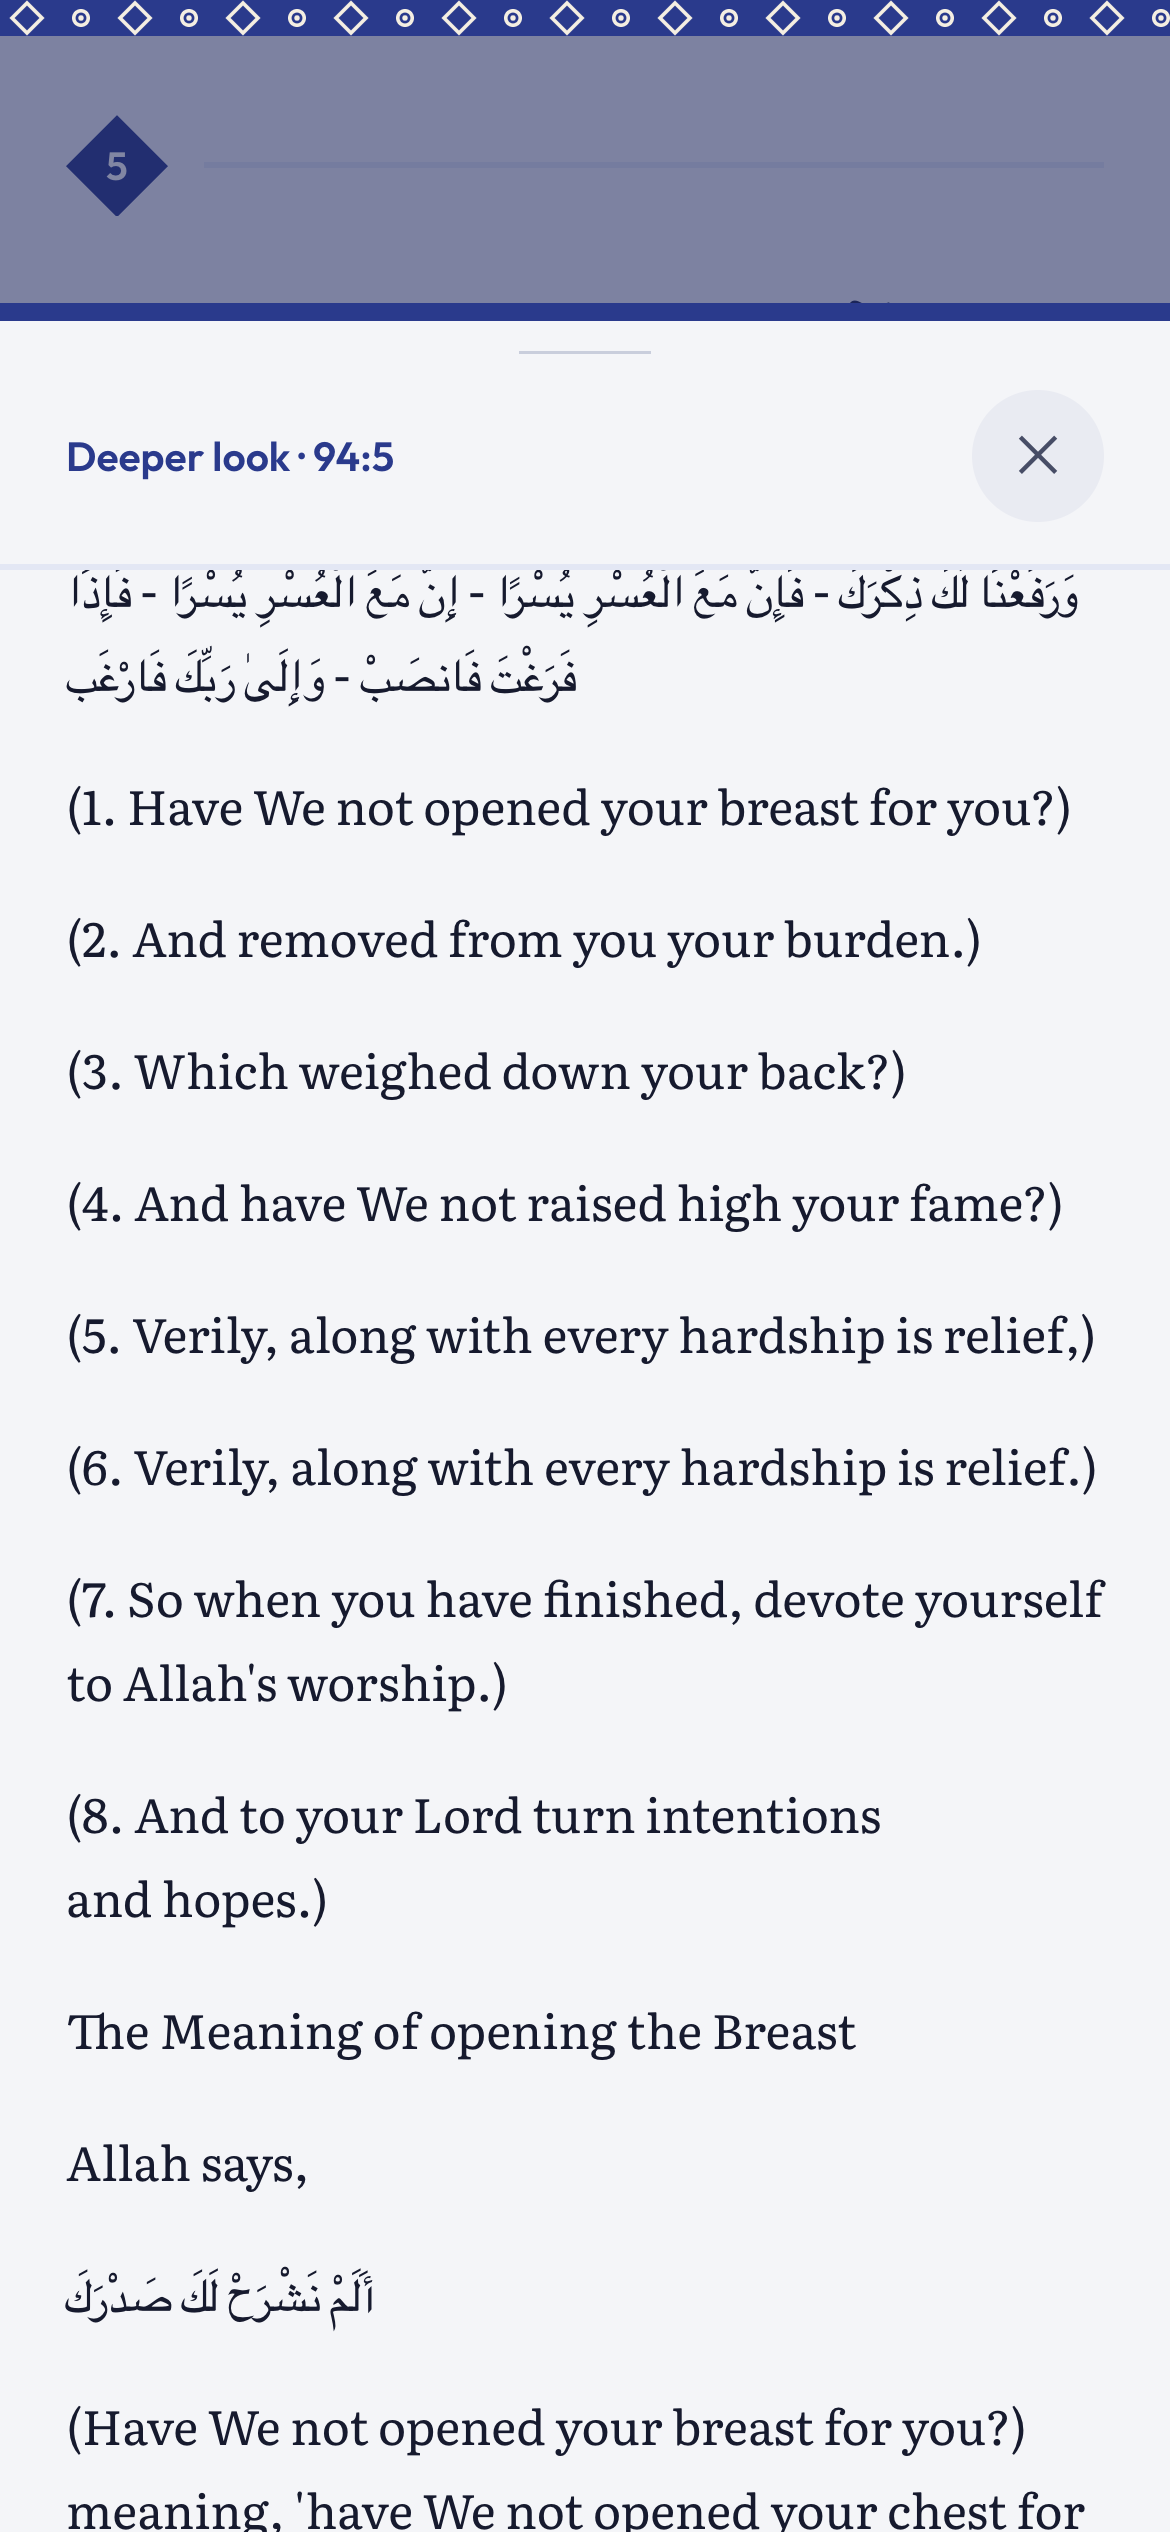
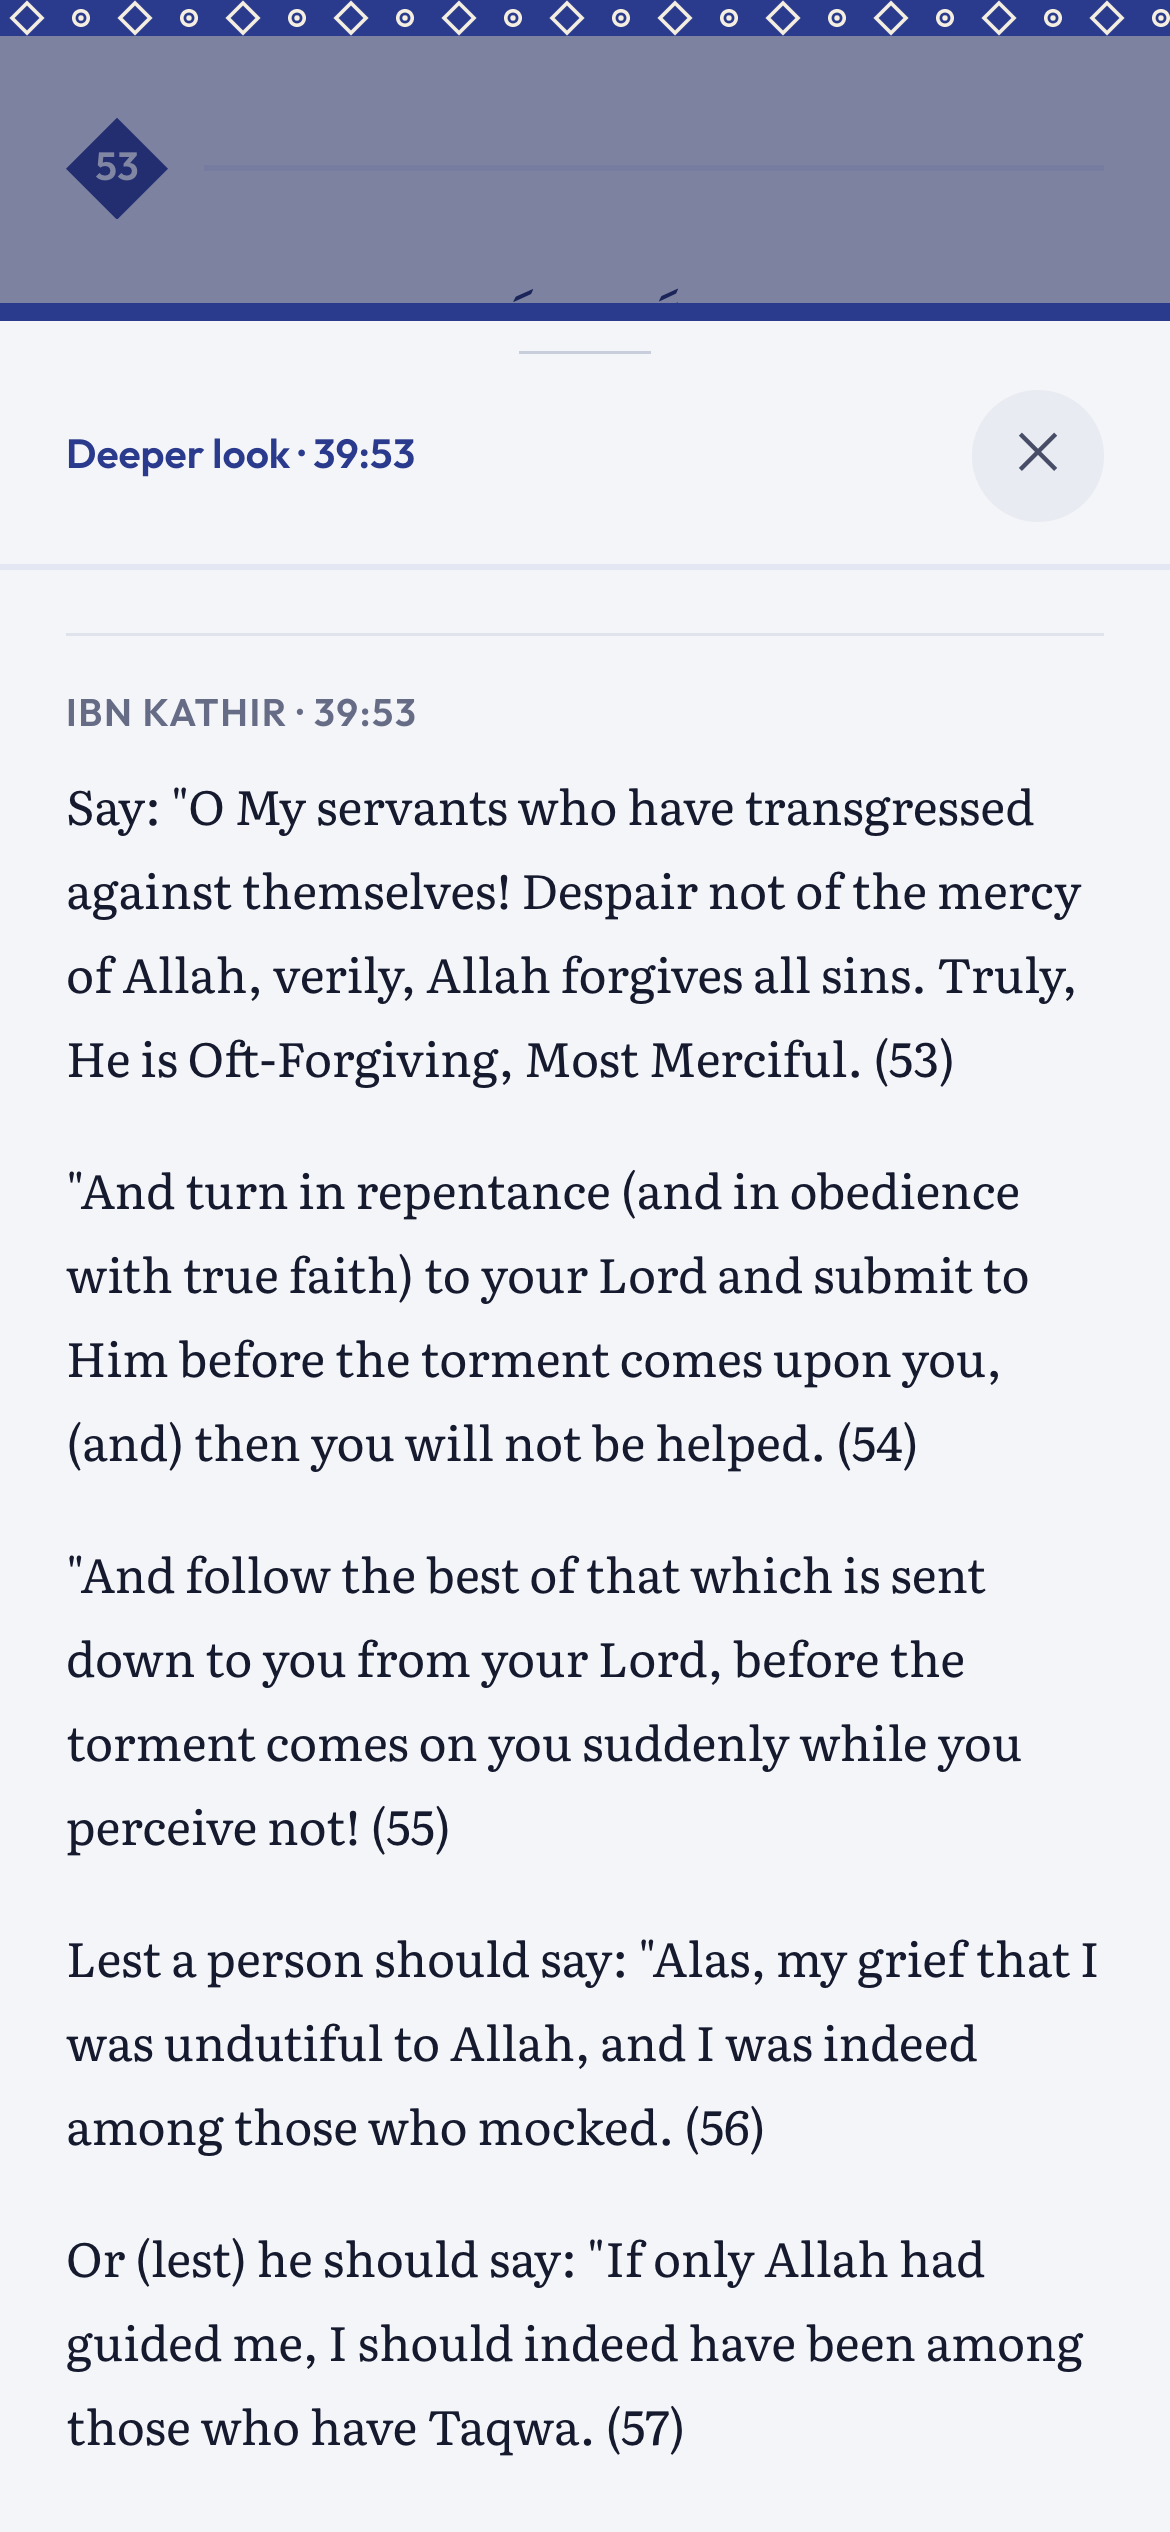
Remake the Deeper look video with Az-Zumar 39:53

diff --git a/apps/promo/src/DeeperLook.tsx b/apps/promo/src/DeeperLook.tsx
@@ -38,6 +38,7 @@ function S1Title({ t }: SceneProps) {
 
 function S2Tap({ t }: SceneProps) {
   const open = layout.deeperOpen;
+  const top = layout.deeperTranslation.y - 10;
   const TAP_AT = 70;
   const OPEN_AT = TAP_AT + 12;
   return (
@@ -50,9 +51,9 @@ function S2Tap({ t }: SceneProps) {
         <Touch f={t} at={TAP_AT} rect={open} />
       </StagePhone>
       <Zoom
-        crop={fullWidth(open.y - 70, 110)}
+        crop={fullWidth(top, open.y + open.h + 18 - top)}
         x={ZOOM_X}
-        y={1180}
+        y={1100}
         t={t}
         at={24}
         until={OPEN_AT - 4}
@@ -133,7 +134,7 @@ function S4Open({ t }: SceneProps) {
 }
 
 function S5Commentary({ t }: SceneProps) {
-  const top = layout.deeperLines.y - 14;
+  const top = layout.deeperLines.y - 6;
   const bottom = layout.deeperLastLine.y + layout.deeperLastLine.h + 14;
   return (
     <AbsoluteFill style={{ background: C.cotton }}>
